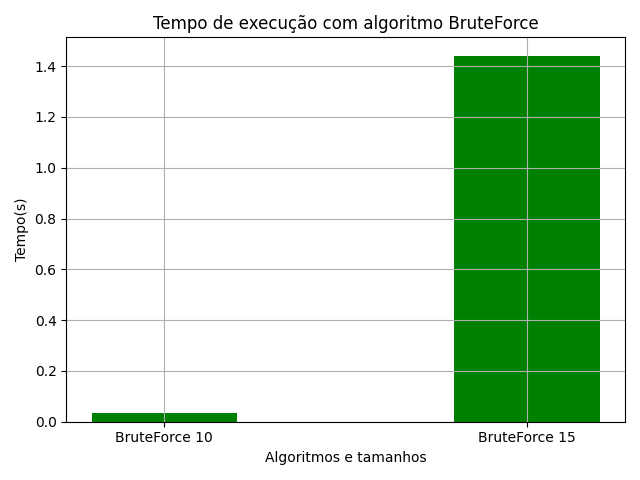
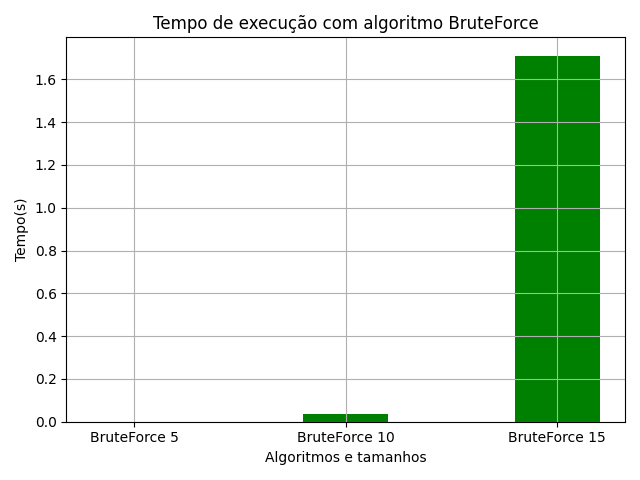
Gráficos feixando automaticamente

diff --git a/NP_Completo.py b/NP_Completo.py
@@ -1,32 +1,19 @@
-from Grafo import Grafo
-from tempos import calcular_tempo_brute_force_timeit, calcular_tempo_heuristic_timeit, get_valores_pro_grafico
-
-quantity_vertex = [10, 15]
-for quantity in quantity_vertex:
-    grafo = Grafo()
-    grafo.create_random_graph(quantity)
-    calcular_tempo_brute_force_timeit(len(grafo.lista_Vertices))
-    calcular_tempo_heuristic_timeit(len(grafo.lista_Vertices))
-
-get_valores_pro_grafico("Heuristic", quantity_vertex)
-get_valores_pro_grafico("BruteForce", quantity_vertex)
-
 def testaResultadoEmTempoPolinomial(grafo):
     solution = grafo.bruteForce()
-    for item in solution: # n
-        solution_vertices = [] # 1
-        adjacents = [] # 1
-        count = 0 # 1
-        k = len(item) # 1
+    for item in solution: 
+        solution_vertices = [] 
+        adjacents = [] 
+        count = 0 
+        k = len(item) 
 
-        for vertice in item: # n
-            solution_vertices.append(vertice.getId()) # 1
-            adjacents = grafo.busca_Adjacentes(vertice) # n
-            for adjacent in adjacents: # n
-                grafo.remove_Aresta(vertice.getId(), adjacent.getId()) # n
-            count += 1 #1
+        for vertice in item: 
+            solution_vertices.append(vertice.getId()) 
+            adjacents = grafo.busca_Adjacentes(vertice) 
+            for adjacent in adjacents: 
+                grafo.remove_Aresta(vertice.getId(), adjacent.getId()) 
+            count += 1 
 
-        if count == k and len(grafo.lista_Arestas) == 0: #1
+        if count == k and len(grafo.lista_Arestas) == 0: 
             print(f"A solução {solution_vertices} gerada pelo algoritmo, é realmente uma solução para o problema de cobertura de vértices.")
         else:
             print(f"A solução {solution_vertices} gerada pelo algoritmo, não é uma solução para o problema de cobertura de vértices.")

diff --git a/createRandomGraph.py b/createRandomGraph.py
@@ -1,0 +1,12 @@
+from Grafo import Grafo
+from tempos import calcular_tempo_brute_force_timeit, calcular_tempo_heuristic_timeit, get_valores_pro_grafico
+
+quantity_vertex = [5, 10, 15]
+for quantity in quantity_vertex:
+    grafo = Grafo()
+    grafo.create_random_graph(quantity)
+    calcular_tempo_brute_force_timeit(len(grafo.lista_Vertices))
+    calcular_tempo_heuristic_timeit(len(grafo.lista_Vertices))
+
+get_valores_pro_grafico("Heuristic", quantity_vertex)
+get_valores_pro_grafico("BruteForce", quantity_vertex)

diff --git a/tempos.py b/tempos.py
@@ -62,7 +62,7 @@ def gerar_grafico(alghoritm_value, alghoritm_classification, tipo, size):
     plt.grid(True)
     plt.savefig(os.getcwd() + '/_plot/tempos-' + str(tipo) + str(size) + '.png')
     print('>>> figura', str(tipo), '.png salva!')
-    plt.show()
+    plt.close()
 
 def get_valores_pro_grafico(tipo, vertex_quantity):
     ''''''
